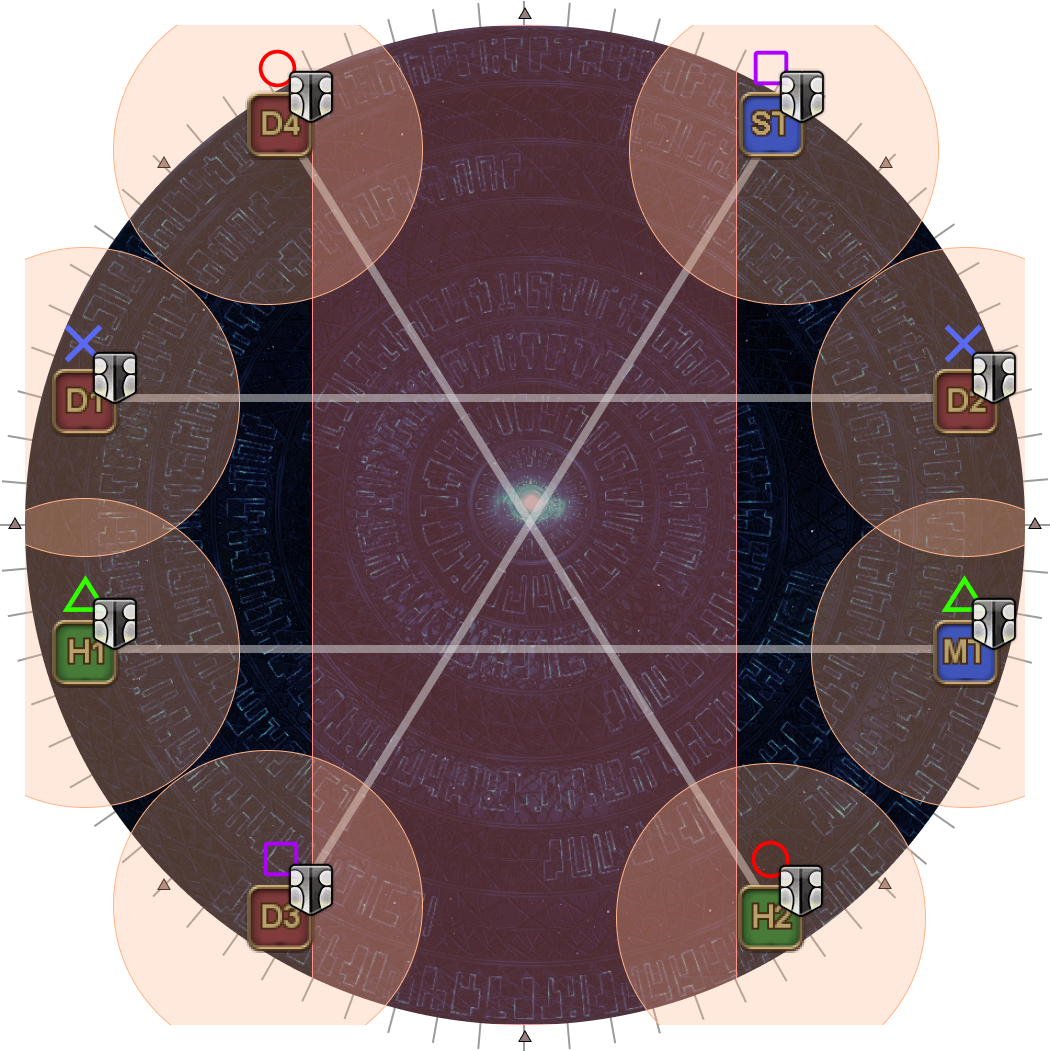
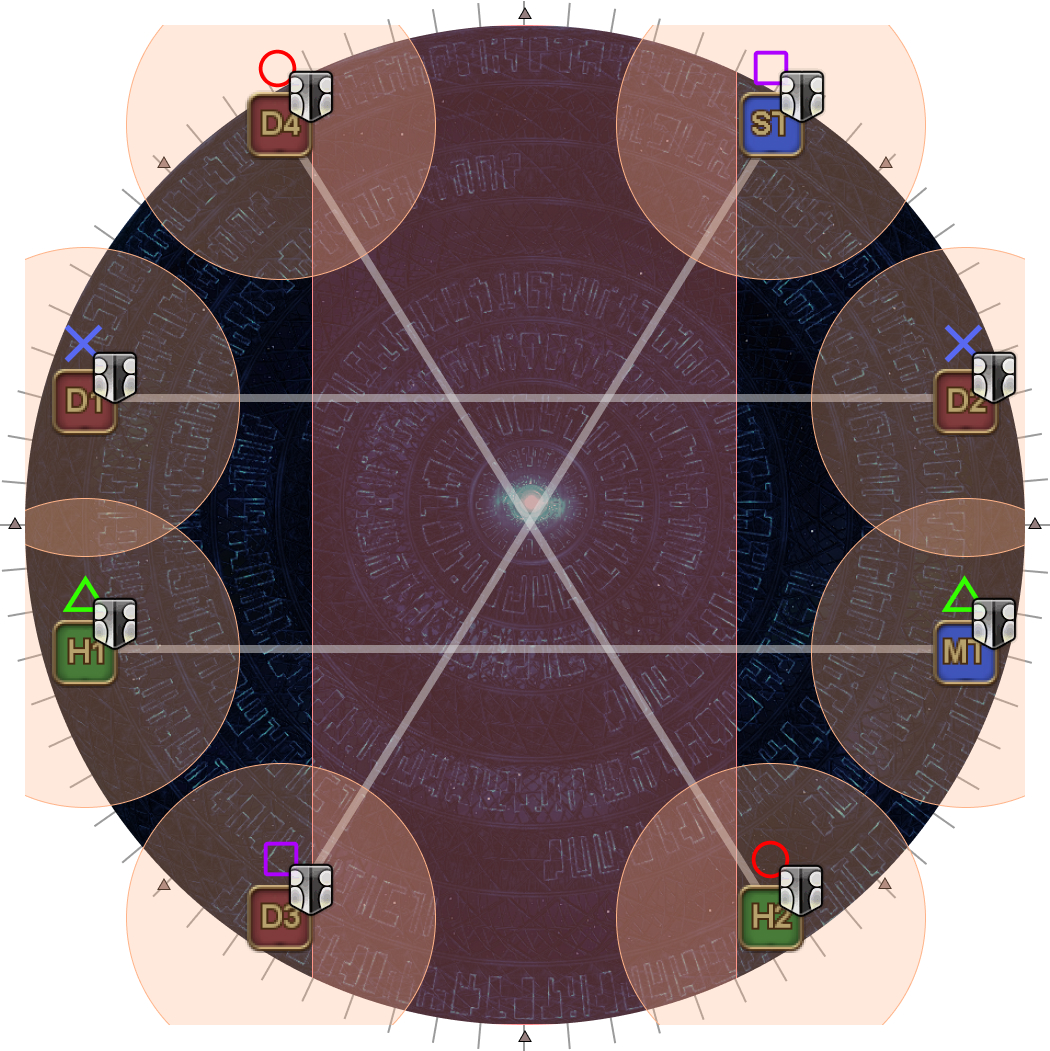
Reorganise M/F AoEs

diff --git a/ultimates/top/en/02_omega_mf.md b/ultimates/top/en/02_omega_mf.md
@@ -23,6 +23,9 @@ permalink: /ultimates/top/02_omega_mf/
   </tr>
 </table>
 
+<div style="background-color: #002 ; padding: 10px; border: 1px solid;">
+<b>Tip:</b> If tanks use Rampart at the end of the previous phase (when Omega jumps away), Rampart will cover this Solar Ray and be back up in time for the tethers in Limitless Synergy.</div>
+
 After a while, Omega-M and Omega-F will both cast Party Synergy, the first major mechanic of this phase.
 
 ## Party Synergy
@@ -41,28 +44,42 @@ After a while, Omega-M and Omega-F will both cast Party Synergy, the first major
     <td><img src="../images/02_omega_mf/party_synergy_02.jpg"></td>
   </tr>
   <tr>
-    <td><p><b>3.</b> Locate the Omega-M and Omega-F towards the edge of the arena that are opposite one another.</p><p>Dodge their AoEs.</p>
-    <ul>
-      <li><b>Omega-M:</b>
-        <ul>
-          <li><b>Sword:</b> Move out.</li>
-          <li><b>Shield:</b> Stay in.</li>
-        </ul>
-      </li>
-      <li><b>Omega-F:</b>
-        <ul>
-          <li><b>Blade-legs:</b> Stay in the center.</li>
-          <li><b>Spear:</b> Move to the sides.</li>
-        </ul>
-      </li>
-    </ul></td>
-    <td><p><b>M Sword, F Blade-legs:</b></p><img src="../images/02_omega_mf/party_synergy_03d.jpg">
-    <p><b>M Sword, F Spear:</b></p><img src="../images/02_omega_mf/party_synergy_03c.jpg">
-    <p><b>M Shield, F Blade-legs:</b></p><img src="../images/02_omega_mf/party_synergy_03a.jpg">
-    <p><b>M Shield, F Spear:</b></p><img src="../images/02_omega_mf/party_synergy_03b.jpg"></td>
+    <td><p><b>3.</b> Locate the Omega-M and Omega-F towards the edge of the arena that are opposite one another.</p><p>Dodge their AoEs.</p><p><em>(You do not need to consider the Mid/Remote Glitch tethers at this point.)</em></p></td>
+    <td><img src="../images/02_omega_mf/party_synergy_03.jpg"></td>
+  </tr>
+</table>
+
+<div style="background-color: #002 ; padding: 10px; border: 1px solid;">
+<details markdown=block>
+<summary><b>[Click to Expand] Safe spots</b></summary>
+<table>
+  <tr>
+    <td width="50%">
+      <p><b>M Sword, F Blade-legs:</b></p>
+      <img src="../images/02_omega_mf/party_synergy_03d.jpg">
+    </td>
+    <td>
+      <p><b>M Sword, F Spear:</b></p>
+      <img src="../images/02_omega_mf/party_synergy_03c.jpg">
+    </td>
   </tr>
   <tr>
-    <td><p><b>4.</b> Using the Eye as North, split up into your 4:4 groups.</p><p>If the party's debuff is Mid Glitch, spread in the order 〇×△□ from top-to-bottom.</p><p>Otherwise, if the party's debuff is Remote Glitch, only the <b>right-side group's 〇 and □</b> swap positions.</p></td>
+    <td>
+      <p><b>M Shield, F Blade-legs:</b></p>
+      <img src="../images/02_omega_mf/party_synergy_03a.jpg">
+    </td>
+    <td>
+      <p><b>M Shield, F Spear:</b></p>
+      <img src="../images/02_omega_mf/party_synergy_03b.jpg">
+    </td>
+  </tr>
+</table>
+</details>
+</div>
+
+<table>
+  <tr>
+    <td width="50%"><p><b>4.</b> Using the Eye as North, split up into your 4:4 groups.</p><p>If the party's debuff is Mid Glitch, spread in the order 〇×△□ from top-to-bottom.</p><p>Otherwise, if the party's debuff is Remote Glitch, only the <b>right-side group's 〇 and □</b> swap positions.</p></td>
     <td><img src="../images/02_omega_mf/party_synergy_04a.jpg"><img src="../images/02_omega_mf/party_synergy_04b.jpg"></td>
   </tr>
   <tr>
